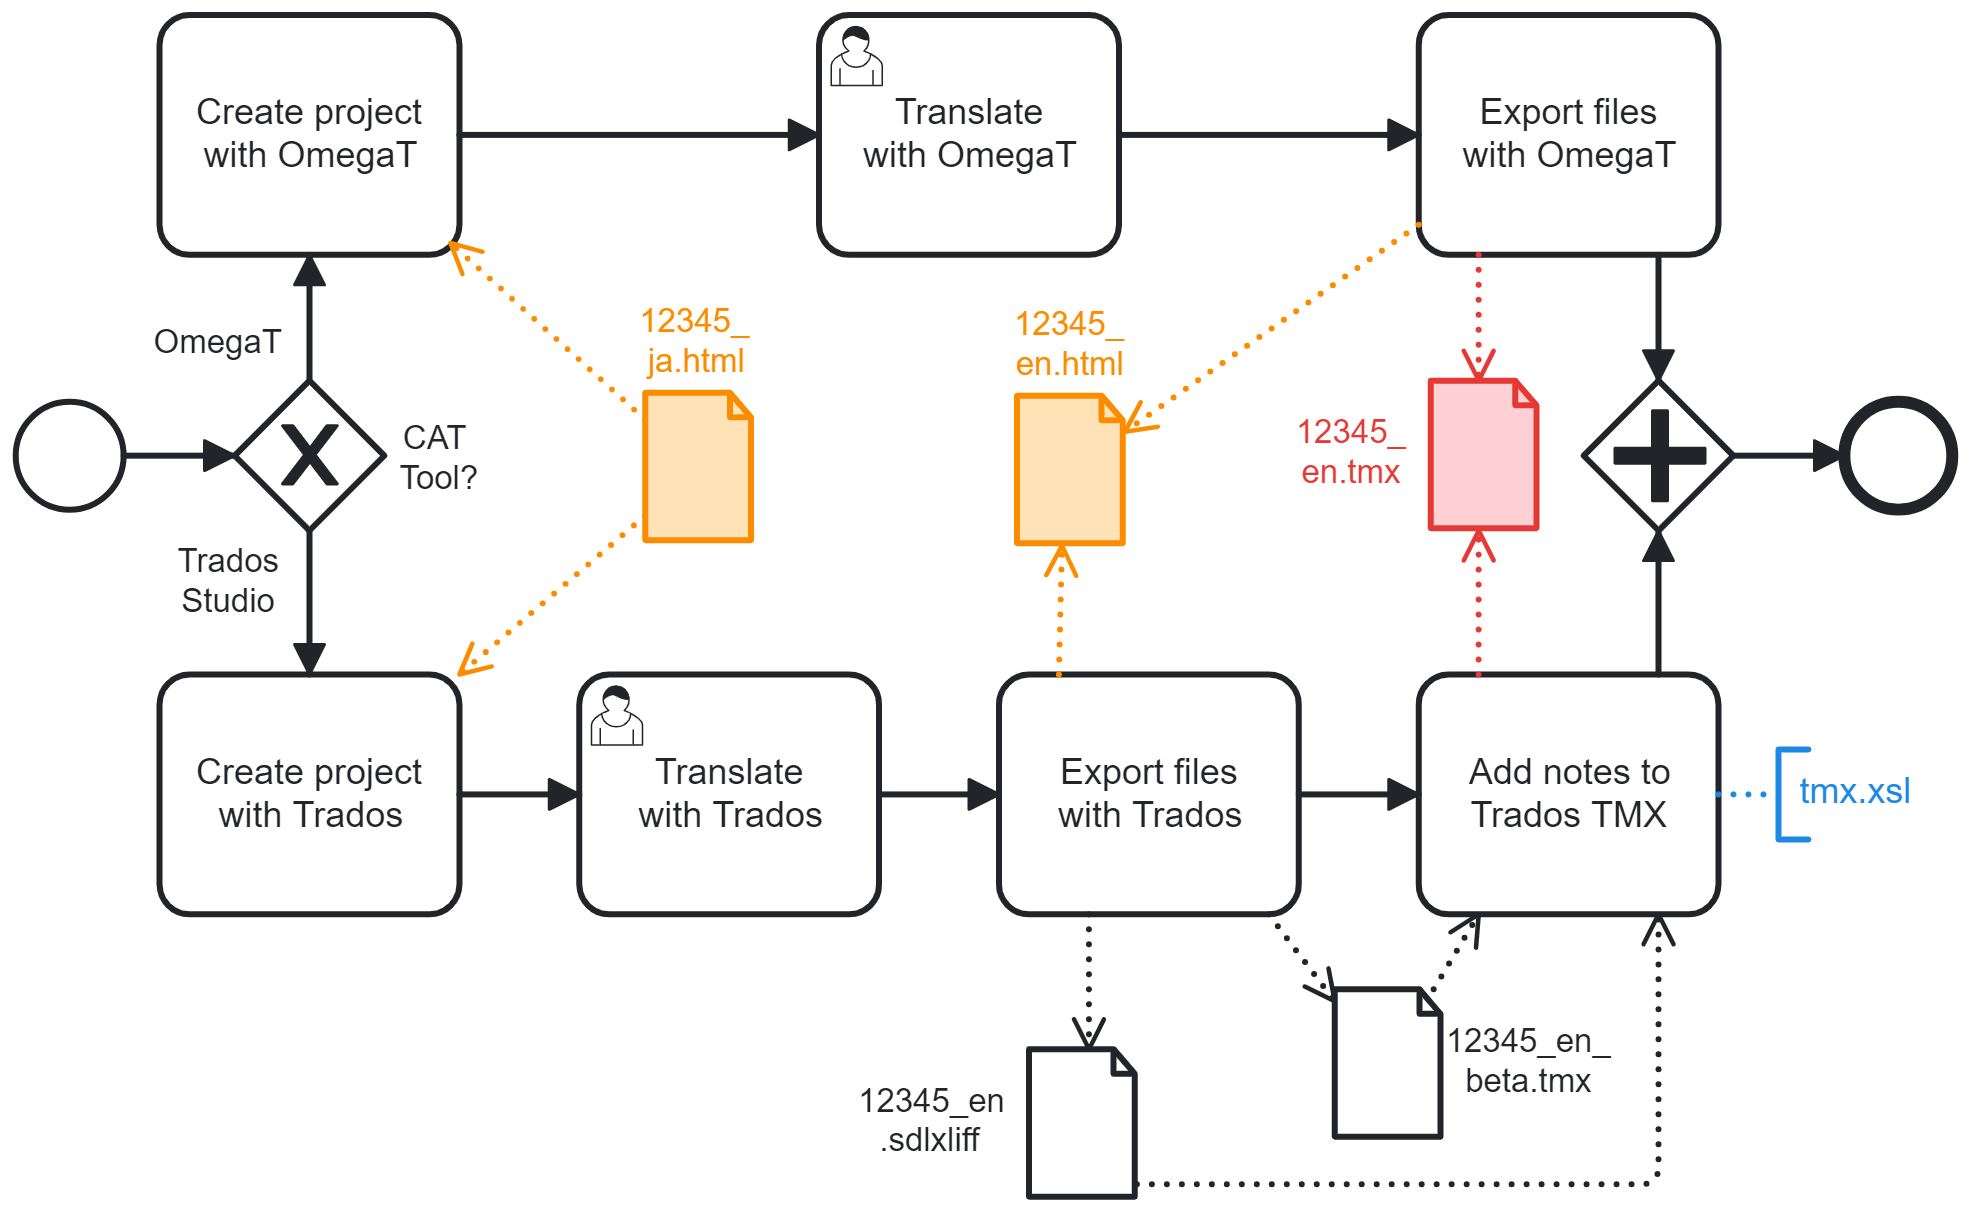
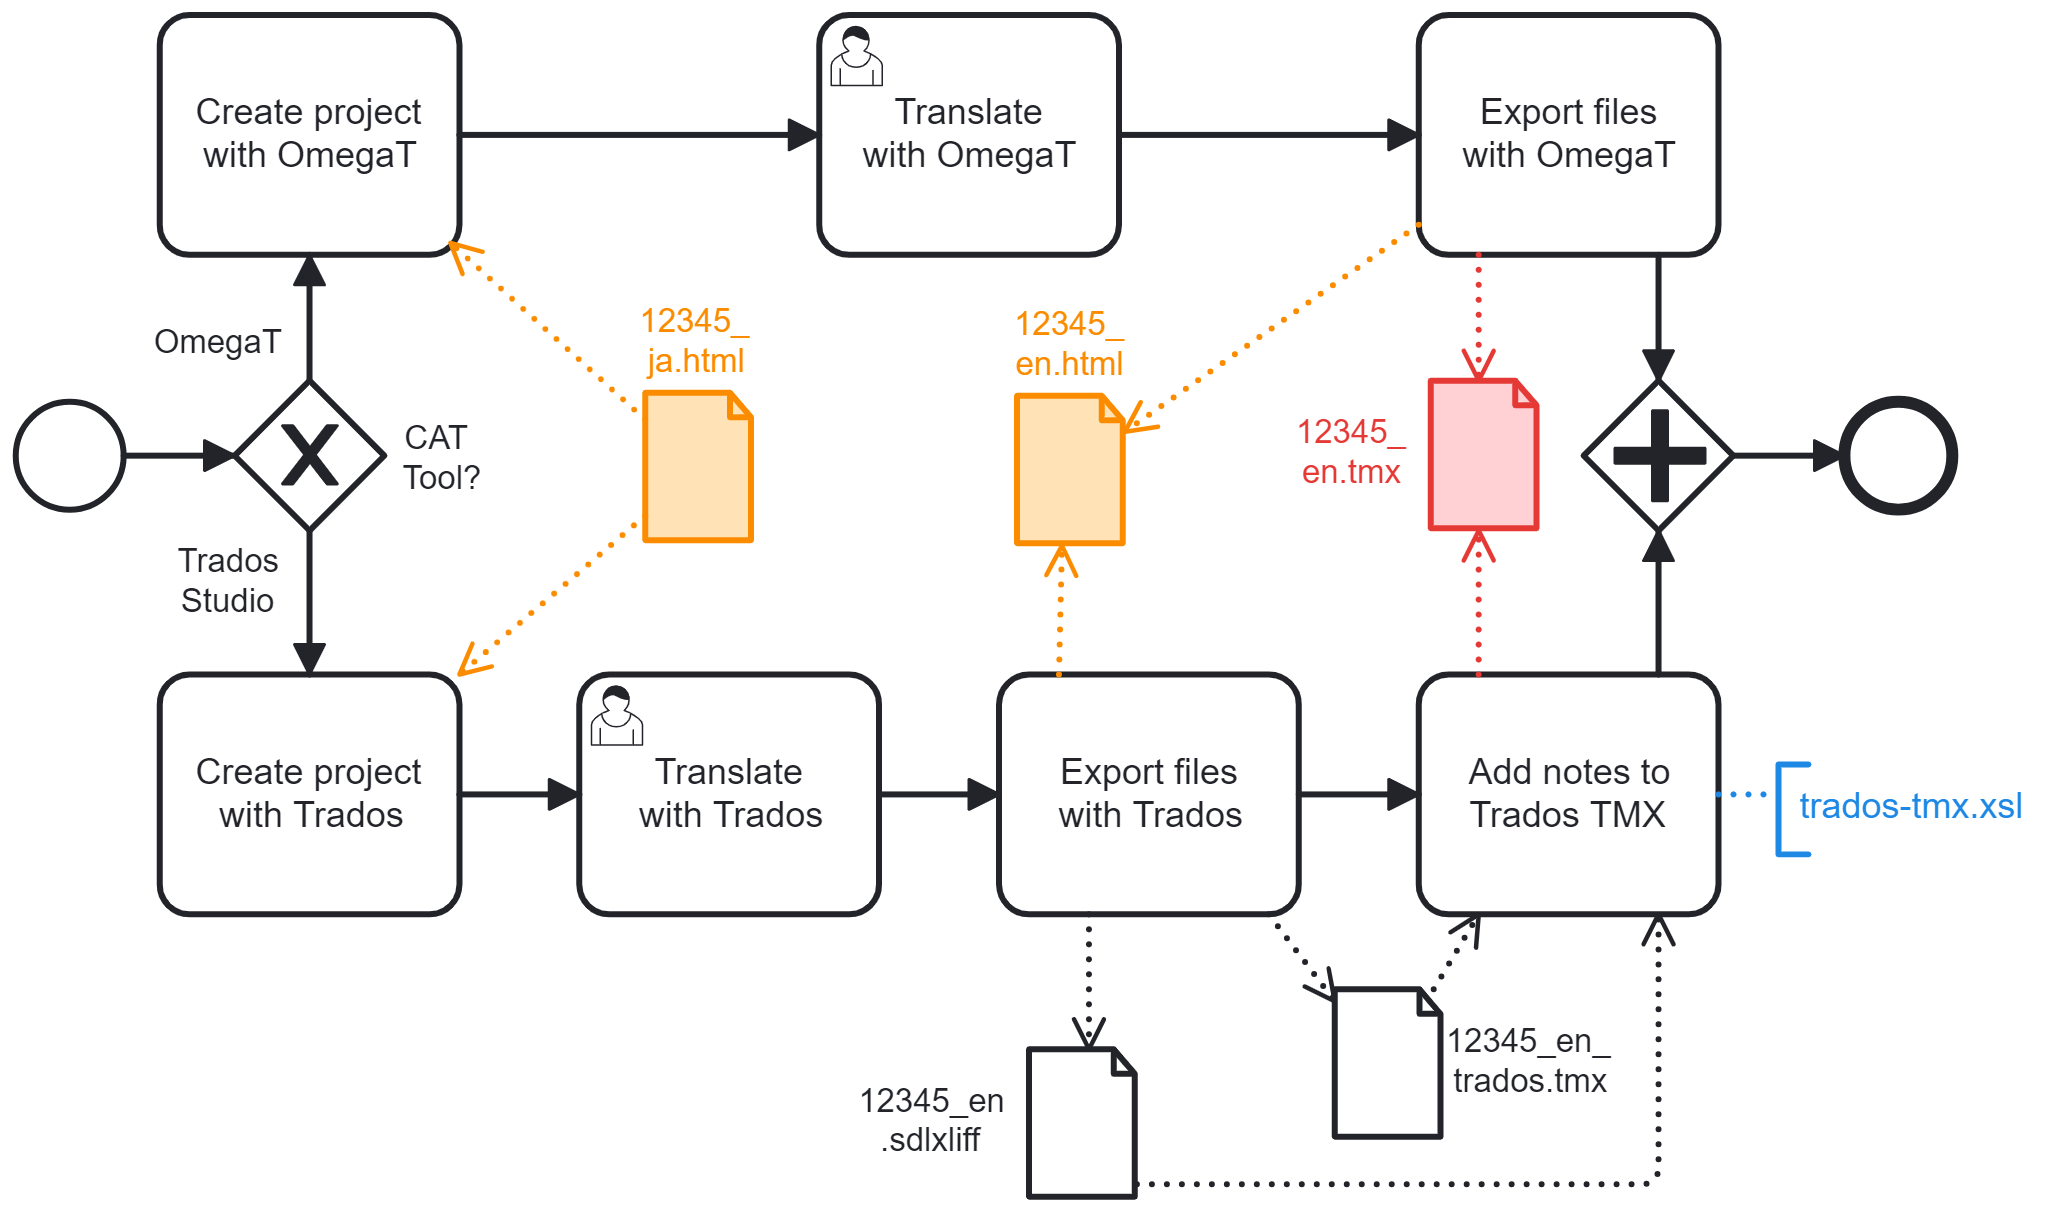
Rename files related to Trados TMX

diff --git a/README.md b/README.md
@@ -39,7 +39,7 @@ Any CAT tool could be possibly plugged into this stage, as the HTML and TMX form
 - **12345_en.html**: English translation of the above file.  
   Note: If your language is not English, don't worry: The process is the same for any language, not just English.
 - **12345_en.tmx**: Translation memory generated by translation tools. It contains the Japanese to English segment mapping and translator’s notes. Format: Translation Memory eXchange V1.4b
-- **12345_en_beta.tmx**: Translation memory generated by Trados Studio. It contains the Japanese to English segment mapping but not the translator’s notes.
+- **12345_en_trados.tmx**: Translation memory generated by Trados Studio. It contains the Japanese to English segment mapping but not the translator’s notes.
 - **12345_en.sdlxliff**: XML Localization Interchange File generated by the Trados Studio. It contains translator's notes.
 ### Tool description:
 - **tmx.xsl**: XSL stylesheet V2.0 that injects Trados Studio segment-level comments (from 12345_en.sdlxliff) into the translation memory 12345_en_beta.tmx as footnotes, and generates 12345_en.tmx
